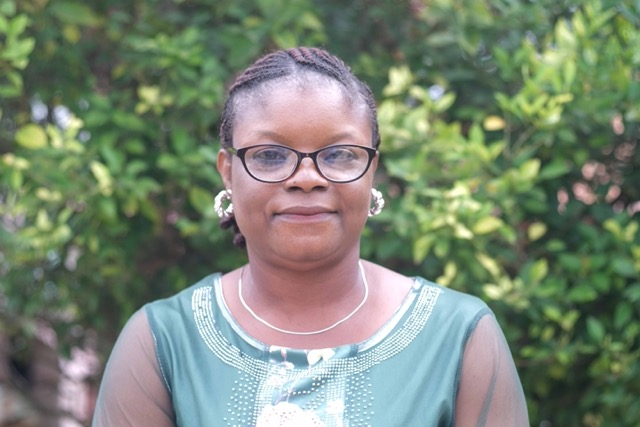
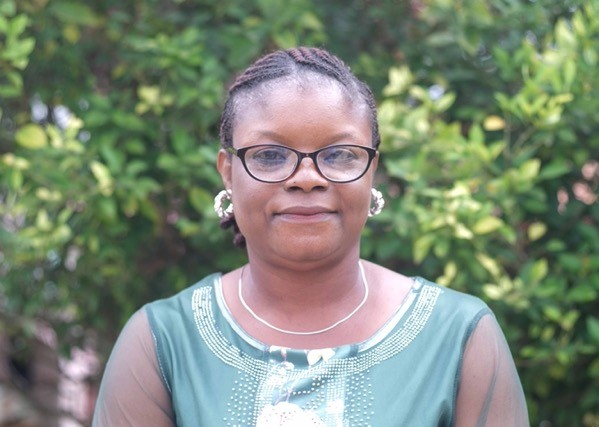
UI fixes

diff --git a/aunty-dupe-school-website/app/about/page.tsx b/aunty-dupe-school-website/app/about/page.tsx
@@ -7,12 +7,12 @@ export default function AboutPage() {
   return (
     <div className="min-h-screen bg-white">
       {/* Hero Section */}
-      <section className="bg-gradient-to-r from-blue-50 to-blue-100 py-20">
+      <section className="bg-gradient-to-r from-blue-50 to-blue-100 py-10 md:py-20">
         <div className="container mx-auto px-4">
           <div className="text-center">
             <Badge className="bg-blue-600 text-white mb-4">About Us</Badge>
-            <h1 className="text-5xl font-bold text-gray-900 mb-6">Four Decades of Educational Excellence</h1>
-            <p className="text-xl text-gray-700 max-w-4xl mx-auto">
+            <h1 className="text-4xl md:text-5xl font-bold text-gray-900 mb-6">Four Decades of Educational Excellence</h1>
+            <p className="text-lg md:text-xl text-gray-700 max-w-4xl mx-auto">
               Founded in 1985 by Evangelist Chief Mrs. Phebean Modupe Ogunsusi, Aunty Dupe Nursery and Primary School
               has been transforming lives and building futures for 40 years.
             </p>
@@ -21,12 +21,12 @@ export default function AboutPage() {
       </section>
 
       {/* Our Story */}
-      <section className="py-20 bg-white">
+      <section className="py-10 md:py-20 bg-white">
         <div className="container mx-auto px-4">
           <div className="grid lg:grid-cols-2 gap-12 items-center">
             <div>
               <Badge className="bg-green-100 text-green-800 mb-4">Our Story</Badge>
-              <h2 className="text-3xl font-bold text-gray-900 mb-6">From Vision to Reality</h2>
+              <h2 className="text-2xl md:text-3xl font-bold text-gray-900 mb-6">From Vision to Reality</h2>
               <p className="text-gray-700 mb-6">
                 The story of Aunty Dupe Nursery and Primary School began with a simple yet profound concern for the
                 quality of education available to children in Ile-Oluji, Ondo State. What started as a response to
@@ -37,7 +37,7 @@ export default function AboutPage() {
                 beacon of educational excellence, having nurtured over 5,000 young minds who are now scattered across
                 the globe, making significant contributions in their various fields.
               </p>
-              <div className="bg-blue-50 p-6 rounded-lg">
+              <div className="bg-blue-50 p-4 md:p-6 rounded-lg">
                 <h3 className="font-semibold text-blue-900 mb-2">Our Mission</h3>
                 <p className="text-blue-800">
                   To provide exceptional foundational education that develops the intellectual, moral, social, and
@@ -59,17 +59,17 @@ export default function AboutPage() {
       </section>
 
       {/* Leadership */}
-      <section className="py-20 bg-gray-50">
+      <section className="py-10 md:py-20 bg-gray-50">
         <div className="container mx-auto px-4">
           <div className="text-center mb-16">
             <Badge className="bg-purple-100 text-purple-800 mb-4">Leadership Team</Badge>
-            <h2 className="text-4xl font-bold text-gray-900 mb-6">Experienced Educational Leaders</h2>
-            <p className="text-xl text-gray-600 max-w-3xl mx-auto">
+            <h2 className="text-3xl md:text-4xl font-bold text-gray-900 mb-6">Experienced Educational Leaders</h2>
+            <p className="text-lg md:text-xl text-gray-600 max-w-3xl mx-auto">
               Our leadership team brings decades of educational experience and unwavering commitment to student success.
             </p>
           </div>
 
-          <div className="grid md:grid-cols-2 lg:grid-cols-3 gap-8">
+          <div className="grid md:grid-cols-2 max-w-5xl mx-auto gap-4 md:gap-8">
             <Card className="text-center">
               <CardHeader>
                 <div className="mx-auto mb-4">
@@ -78,7 +78,7 @@ export default function AboutPage() {
                     alt="Proprietress"
                     width={150}
                     height={150}
-                    className="rounded-full mx-auto"
+                    className="rounded-full mx-auto min-h-56 border object-cover"
                   />
                 </div>
                 <CardTitle className="text-lg">Evangelist Chief Mrs. Phebean Modupe Ogunsusi</CardTitle>
@@ -100,7 +100,7 @@ export default function AboutPage() {
                     alt="Head Teacher"
                     width={150}
                     height={150}
-                    className="rounded-full mx-auto"
+                    className="rounded-full mx-auto min-h-56 border object-cover"
                   />
                 </div>
                 <CardTitle className="text-lg">Mrs. Akintunde Abimbola</CardTitle>
@@ -122,7 +122,7 @@ export default function AboutPage() {
                     alt="Academic Coordinator"
                     width={150}
                     height={150}
-                    className="rounded-full mx-auto"
+                    className="rounded-full mx-auto min-h-56 border object-cover"
                   />
                 </div>
                 <CardTitle className="text-lg">Academic Leadership Team</CardTitle>
@@ -144,7 +144,7 @@ export default function AboutPage() {
                     alt="Senior Teacher"
                     width={150}
                     height={150}
-                    className="rounded-full mx-auto"
+                    className="rounded-full mx-auto min-h-56 border object-cover"
                   />
                 </div>
                 <CardTitle className="text-lg">Senior Teaching Staff</CardTitle>
